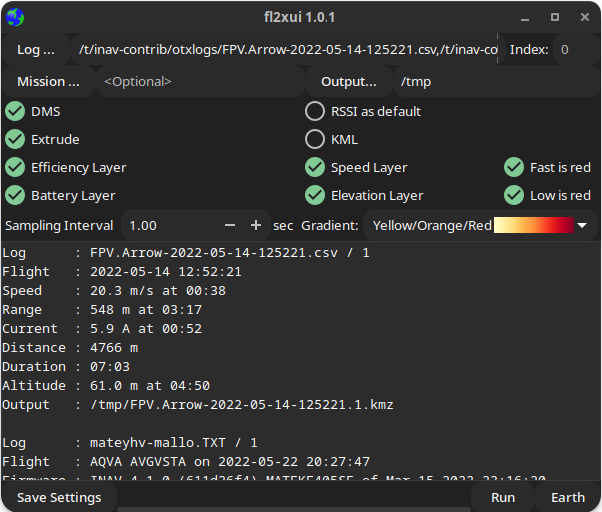
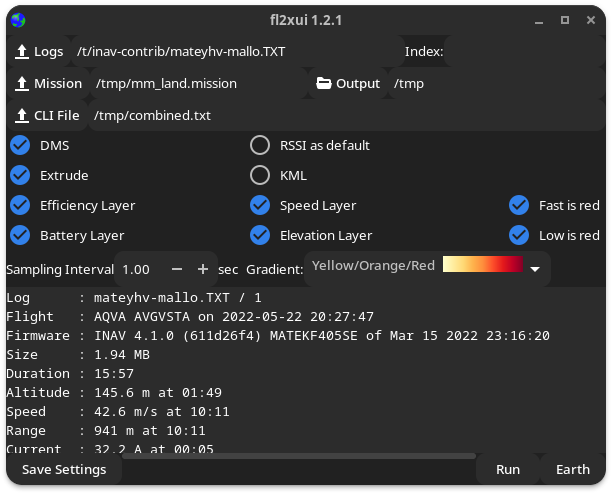
cherry pick dev into master

Changed region(s): [[0.0, 0.0, 1.0, 1.0]]

diff --git a/docs/docs/index.md b/docs/docs/index.md
@@ -15,6 +15,8 @@ authors:
 
 ![Linux](images/linux.png){: width="40%" }
 
+Note: This is the latest version. Other images are from older versions without the `CLI` option.
+
 ### MacOS
 
 ![MacOS](images/macos.png){: width="40%" }
@@ -40,8 +42,9 @@ authors:
 * **Output...** : Opens a file chooser to select the output directory. The defaults (no selection) are:
     * Linux, FreeBSD, MacOS : Current (working) directory, typically `$HOME` when launched from a desktop environment.
 	* Windows : "Documents" (e.g. `C:\Users\USERNAME\Documents`).
- * **Mission...** : Optional mission file (single selection). MW XML format (e.g. from {{ mwp }} or {{ inav }} configurator).
+ * **Mission...** : Optional mission file (single selection). MW XML format (e.g. from {{ mwp }} or {{ inav }} configurator). The mission segments (and optional `fwapproach`) will be included in the KML.
  * **Index** : If 0 (default), processes all logs in (each) file; if non zero, processes a single log at the specified index.
+ * **CLI File** : Optional CLI (diff/dump format) file (single selection). If it contains `safehome` directives (and optionally, associated `fwapproach` directives), these will be included in the generated KML.
 
 ### Visualisation Options (2)
 
@@ -124,6 +127,7 @@ Debian (and derivatives) have a binary installer in the  [fl2xui release area](h
 
 * It is recommended that `blackbox_decode` and `flightlog2kml` are in the `fl2xui\bin` directory.
 * There may be a Windows installer in the [fl2xui release area](https://github.com/stronnag/fl2xui/releases).
+* If run in a VM, it may be necessary to set the environment variable `GSK_RENDERER` to the value `CAIRO`.
 
 #### Look and Feel
 
